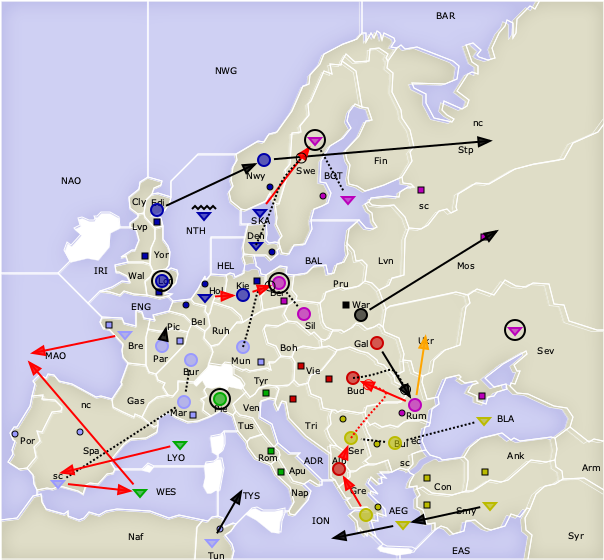
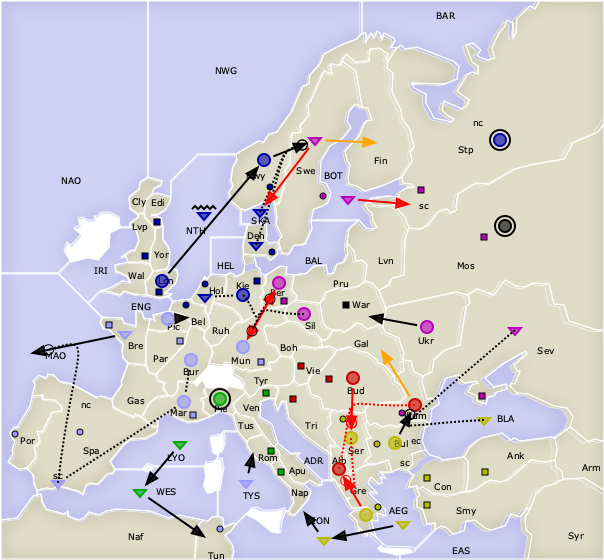
1904 Fall

diff --git a/index.html b/index.html
@@ -36,13 +36,13 @@
         <header>Diplomacy Today</header>
     </div>
 
-		<div class="subhead">York, MA - <span id="season">Spring 1904</span> - Seven Pages</div>
+		<div class="subhead">York, MA - <span id="season">Fall 1904</span> - Seven Pages</div>
 </div>
 <div class="content">
     <div class="collumns">
 			
         <div class="collumn">
-					<div class="head"><span class="headline hl3">Austria Stands Strong: Failed Turkish Invasion Raises Tensions</span><p><span class="headline hl4">Bulgaria, the Great Supporter, Emerges as a Strong Ally for Turkey</span></p></div>
+					<div class="head"><span class="headline hl3">Balkans Boil Over: Turkey & Russia Hold Rumania, Austrian Forces Repelled</span><p><span class="headline hl4">An Unsteady Scales of Power Emerges as Austrians Retreat to Galicia</span></p></div>
 
 				<figure class="figure">
 					
@@ -51,11 +51,11 @@
 							</figure>
 
 					
-					The powerful Austrian forces sustained their defense against the Turkish invasion. Despite the collective forces of Turkey making numerous attempts to clinch Austria's territory, the brave Austrians held their ground. This battle saw Turkey’s stronghold of Serbia and Greece attempting to invade Austria-held Albania, but much to their disappointment, their attack strength fell short. Bulgaria appeared as the wildcard, not only successfully supporting Turkey, but also maintaining its power in Black sea region, unchallenged. Russia saw a failed invasion attempt into Austria’s Budapest from their home ground in Rumania, and later had to retreat to their territory in Ukraine. Austria on the other hand captured Rumania from Russia, making it a significant victory for Austria. These recent findings have sparked multiple discussions regarding shifts in power dynamics and the sun setting in the east for Turkey’s expansion plans.
+					The Austrians, embroiled in a Balkan debacle, have suffered a series of chaotic setbacks. A major assault on Serbia and Albania disrupted, rebuffed, and routed, the Austrian military is in apparent disarray. As for Russia, they saw success with their unchallenged strategic maneuverings from Bulgaria to the thrill of controlling Rumania, startling the geopolitical observers. Likewise, Turkish forces claimed victory in Rumania, which resulted in a resonant show of force that bolsters their dominance. Meanwhile, Greece remains a battleground as a Turkish attempt to overtake it from Albania proved unsuccessful. Despite the dust still settling on the battlefield, all eyes are now on the Austrians' retreat to Galicia and the changing dynamics of the Balkan region.
 				</div>
 			
         <div class="collumn">
-					<div class="head"><span class="headline hl3">Italian and French Armies Clash over Strategic Territories, Stalemate Ensues</span><p><span class="headline hl4">Simultaneous Naval and Ground Offensives Prove Futile as Neither Country Gains Ground</span></p></div>
+					<div class="head"><span class="headline hl3">Northern Conquest: England Expands Influence, Russia Retreats</span><p><span class="headline hl4">Bitter Showdown in Sweden Ends in English Triumph</span></p></div>
 
 				<figure class="figure">
 					
@@ -64,11 +64,12 @@
 							</figure>
 
 					
-					Both France and Italy faced setbacks yesterday during a series of interconnected military engagements. The French navy's planned movement from Brest to the Mid-Atlantic Ocean was deflected by Italian forces. Simultaneously, Italy's attempt to invade Spain from the Ligurian Sea also ended in a stalemate, as French forces successfully held the line. However, both nations have strengthened their resolve as France managed to reinforce its position in Burgundy from Marseille, while strengthening its naval hold near the North coast from Spain. Meanwhile, the Italian navy's pursuits to seize the Mid-Atlantic Ocean from the Western Mediterranean have also proved fruitless. The ceasefire in the waters off Spain underscored the deadlock. The continued failure of the French army's attempt to move from Spain to the Western Mediterranean signaled the intensity of the European standoff. The escalating tensions have brought geopolitical experts, such as esteemed professor Heinrich Von Graf, to question the long-term ramifications for the overall European stability and peace, while the common folk foresee a grave and dark future as the clamor of war echoes throughout the continent.
+					The English fleet, spearheaded by Admiral Lionel Hargreaves, claimed a resounding victory over Russian forces in Sweden. Operation Northern Conquest saw meticulous planning and impeccable execution. Originating from both Norway and Denmark, England demonstrated superior attack strength and unchallenged support, leaving Russia in the dust. The Russian forces, unable to counter England's attack, have been forced to retreat to Finland. Adding insult to injury, England also capitalised on Russia's preoccupation in Scandinavia and took back Norway, further cementing their control in Northern Europe. Tensions reach a fever pitch as this captivating geopolitical chess match unfolds.
+---
 				</div>
 			
         <div class="collumn">
-					<div class="head"><span class="headline hl3">The Lion and the Rooster Foiled by the Bear: Europe’s Geopolitical Chess Game Heats Up</span><p><span class="headline hl4">Russia Remains Victorious in Ber; England and France left Stagnant in their Expansion Efforts.</span></p></div>
+					<div class="head"><span class="headline hl3">Berlin Stands Unfazed Amidst Crossfire Between England, France, and Russia</span><p><span class="headline hl4">Russia stands by England in defending Berlin, results in shocking reversal for France</span></p></div>
 
 				<figure class="figure">
 					
@@ -77,24 +78,11 @@
 							</figure>
 
 					
-					Much hype surrounded the English and French expeditions to German territories, Ber and Kie. Yet, with much disappointment, the much-anticipated control of Ber by England failed. Not only that, but the anticipated acquisition of Kie from Holland ended in much the same way. In a prepared statement, England’s Prime Minister, Arthur Bingham, expressed disappointment but remained hopeful. “These are but small setbacks, our great nation will strive forward and continue to extend our sphere of influence," he voiced with enthusiasm. Meanwhile, the French Ambassador to Munich, Francois Valois, who had set his eyes on Ber, found his efforts equally fruitless, thus leaving Russia to maintain control of their territory. Russia’s President, Ivan Petrovich, was seen celebrating at the Russian Embassy, declaring “No power, no matter how mighty they presume to be, can force the Bear into submission. Today’s victory proved that.” Who knows what the next turn in the game is going to bring. Whatever it is, Europe is kept in suspense, waiting on the edge of their seats.
+					Berlin not only stayed its ground, but witnessed a new chapter in European geopolitical alliances. While the French, led by General Pierre la Rochelle, embarked on an ambitious attack on Berlin, the Russian forces under Ivan Mikhailov surprisingly rallied in support of England's domination in Berlin. Ignoring its possession, Russia moved resolutely away from Munich, resulting in a failed push. Despite the French attack having been unchallenged initially, their strength could not outmatch the united English and Russian defenses, causing a stunning twist, and affirming England's control over Berlin. Meanwhile, England, in a strategic wisdom, ensured the calm in Kiel with solid support from Holland. Today's events raise pivotal questions about the shifting allegiances between these key players and the future of Europe hangs precariously in this delicate balance of power.
 				</div>
 			
         <div class="collumn">
-					<div class="head"><span class="headline hl3">The Russian Bear Holds Ground Against English Invasion!</span><p><span class="headline hl4">A Bold Stand in Sweden Thwarts England's Attempt to Expand Their Territory</span></p></div>
-
-				<figure class="figure">
-					
-					<img class="media" src=assets/battle3.png alt="">
-									<!-- <figcaption class="figcaption">Hermine hoping for courage.</figcaption> -->
-							</figure>
-
-					
-					Yesterday, a fierce diplomatic battle took place as England sought to extend their dominion to Russia-owned Sweden. England, deploying their fleet from Denmark for support, attempted to march to Sweden from the Skagerrak Sea. However, their plan backfired as their army was unable to outmuscle the Russian forces stationed there. In an exciting turn of events, the Russian soldiers, led by General Ivan Petrov, rallied a robust defense, underpinning their strength and resolve. England's attack was thwarted as the Russians victoriously held their ground against the English assault, illustrating that the Motherland will not be so easily taken. This contentious match has underscored the tense relations between England and Russia, an onset of an enthralling geopolitical power play.
-				</div>
-			
-        <div class="collumn">
-					<div class="head"><span class="headline hl3">A New Ice Age: England Overtakes Russian Territories in Stunning Seaborne Invasion</span><p><span class="headline hl4">Brisk British Manoeuvres Claim Nwy, Stp - Threatening Russian Stronghold</span></p></div>
+					<div class="head"><span class="headline hl3">Turkish Fleet Seizes Naples in Unexpected Maritime Assault!</span><p><span class="headline hl4">Amid a Cloud of Gunpowder, Italy Loses Footing in Key Maritime Province.</span></p></div>
 
 				<figure class="figure">
 					
@@ -103,11 +91,50 @@
 							</figure>
 
 					
-					London- In an unprecedented move, English forces, led by General Sir Alistair MacGuffin, have successfully penetrated deeply into Russian territories, taking control of Nwy before mounting an audacious assault on Stp. The invasion, initiated from Edi, emerged victorious due to England's superior attack strength and strategic convoy manoeuvres via NTH. These victories not only threaten Russia's geopolitical stronghold but also herald a trying era for the Tsar's dominion as the Queen's forces show no sign of slowing their expansion.
+					The Turkish Empire, aboard the formidable ships of the Aegean Sea fleet, have victoriously descended upon the city of Naples, Italy. After the initial successful manoeuvre into the Ionian Sea's strategic waters, Turkish forces demonstratively pushed ahead to seize Naples, a move that has sent shockwaves through the corridors of the Italian political establishment. The fleet led by Admiral Ahmet Bey demonstrated superior attack capabilities against the Italian navy, capturing the city largely in part to its strategic use of the Ionian Sea. The fall of Naples is a bitter blow to Italy's geo-strategic designs in the Mediterranean theatre. Political pundits predict significant repercussions for Italy's governance as the nation grapples with this unprecedented security breach, and eyes now inevitably turn to upcoming navigation tables for the next move.
 				</div>
 			
         <div class="collumn">
-					<div class="head"><span class="headline hl3">Daring German Blitzkrieg Captures Moscow!</span><p><span class="headline hl4">Tsar Nicholas II Outraged as German Forces Triumph Through Astute Warfare Strategies</span></p></div>
+					<div class="head"><span class="headline hl3">The Lion of Lyon Leads Italy on the Warpath: Tunis Seized!</span><p><span class="headline hl4">A Daring Naval Strategy Propels Italy to a Strategic Victory in Northern Africa</span></p></div>
+
+				<figure class="figure">
+					
+					<img class="media" src=assets/battle5.png alt="">
+									<!-- <figcaption class="figcaption">Hermine hoping for courage.</figcaption> -->
+							</figure>
+
+					
+					The Italian fleet, commanded by the audacious Admiral 'Lion of Lyon', has ousted the French from Tunis after a fierce naval engagement near the Western Mediterranean. Defying expectations, the Italian navy demonstrated superior tactical prowess and force strength, using Lyon as the launch point of their offensive. The fall of Tunis to Italy represents a significant shift in the power balance of Europe, with reverberations surely to ripple through diplomatic channels from Vienna to London. As the dust settles, Europe watches on pins and needles, anticipating France’s response to this audacious Italian gambit.
+				</div>
+			
+        <div class="collumn">
+					<div class="head"><span class="headline hl3">Russian Might Overpowers German Hold in Warsaw!</span><p><span class="headline hl4">Unexpected Swift Victory by Russian Forces Emerges From Ukraine</span></p></div>
+
+				<figure class="figure">
+					
+					<img class="media" src=assets/battle6.png alt="">
+									<!-- <figcaption class="figcaption">Hermine hoping for courage.</figcaption> -->
+							</figure>
+
+					
+					Germany has lost control of Warsaw to Russia. This extraordinary victory racked up by Russian troop highlights a sudden shift of power in Europe's geopolitical landscape. Led by the indomitable General Yuri Petrovich, the Russian force surged from Ukraine, expertly harnessing a greater attack strength to push back the German side. The fall of Warsaw marks a new chapter in Russia's march towards dominance, leaving the continents' leaders to reassess their own strategies.
+				</div>
+			
+        <div class="collumn">
+					<div class="head"><span class="headline hl3">Le coup de Picardy: Battle of Belgium Concludes in Stunning French Victory</span><p><span class="headline hl4">England left Red-faced as France Hammers the Final Nail in the Coffin of their Belgian Occupation</span></p></div>
+
+				<figure class="figure">
+					
+					<img class="media" src=assets/battle7.png alt="">
+									<!-- <figcaption class="figcaption">Hermine hoping for courage.</figcaption> -->
+							</figure>
+
+					
+					French forces staged an audacious assault from Picardy, successfully invading and wresting control of Belgium from English occupation. The battle, which analysts described as a seminal showdown of the European geopolitical landscape, abruptly ended with France's overwhelming attack strength. England, caught off-guard, finds itself in a humbling retreat, paving the way for a new Francophile era in Belgium. The spearhead of the attack, French General Jacques Leblanc, hailed the victory as a testament to French military prowess and further confirmation of the weakening grip of English power in Continental Europe.
+				</div>
+			
+        <div class="collumn">
+					<div class="head"><span class="headline hl3">French Fleet Overpowers Rome; Tyrrhenian Sea Feeds Italian Flames!</span><p><span class="headline hl4">A decisive blow as the French seize the Eternal City in an unexpected maritime assault.</span></p></div>
 
 				<figure class="figure">
 					
@@ -116,7 +143,33 @@
 							</figure>
 
 					
-					The German army has succeeded in capturing the city of Moscow from Russia yesterday, sending shockwaves through the Kremlin. The Russian government, under Tsar Nicholas II, is now reeling from the defeat and scrambling to regain the control of their capital city. The operation, dubbed as 'Operation Nordlicht', was initiated under the leadership of General Friedrich von Schlieffen from the German war office in Warsaw, who is now being hailed as a national hero in Germany.
+					This week, in a surprising turn of events, French vessels stormed into Rome from the Tyrrhenian Sea, surprising Italian defenses and securing a swift victory. The audacious offensive launched by Admiral Marius Devereux has shaken the Italian political landscape to its core. Capitalizing on the Italian's apparent naval inferiority, the French have bared their teeth in this territorial tug of war, destabilizing the Mediterranean balance of power. Rome now lies under the Tricolor, sending shockwaves all over Europe.
+				</div>
+			
+        <div class="collumn">
+					<div class="head"><span class="headline hl3">The Russian Bear Bites Back: Failed Seizure of St. Petersburg!</span><p><span class="headline hl4">The British Lion withstands the blow, clinging firm to the czar's old heartland</span></p></div>
+
+				<figure class="figure">
+					
+					<img class="media" src=assets/battle9.png alt="">
+									<!-- <figcaption class="figcaption">Hermine hoping for courage.</figcaption> -->
+							</figure>
+
+					
+					The globe watched in quiet suspense as the heart of the British Empire sought to defend a flush acquisition, the once-prestigious seat of imperial Russia, St. Petersburg. The Russian offensive, orchestrated by Admiral Igor Petrov from the Gulf of Bothnia, was nothing short of a nationalistic crusade to take back what was once theirs. However, the zealous hope dipped into a cold reality when the English defense, led by Colonel William Churchill, revealed itself to be an impenetrable bulwark. Russia's naval assault found itself hopelessly outmatched, proving yet again that the British commanding rule in St. Petersburg is not just symbolic, but formidable and resilient. As the dust settles, whispers of tension and turmoil punctuate the courts of both nations. Only time will tell how this twisted dance of powers continues.
+				</div>
+			
+        <div class="collumn">
+					<div class="head"><span class="headline hl3">Germany Establishes Firm Control Over Moscow!</span><p><span class="headline hl4">Unchallenged Stance of German Forces in Russian Territory Sparks Tensions!</span></p></div>
+
+				<figure class="figure">
+					
+					<img class="media" src=assets/battle10.png alt="">
+									<!-- <figcaption class="figcaption">Hermine hoping for courage.</figcaption> -->
+							</figure>
+
+					
+					German troops have tightened their grip over the city of Moscow, Russia's prestigious capital. Reports confirm that the German order to hold the city went utterly unchallenged. This latest occurrence has left observers abuzz about the implications for the overall geopolitics of Europe. Rumors abound of an ominous silence from Tsar Nicholas II and his advisors. As Field Marshal von Schlieffen staunchly reinforces his position, one can only wonder about the potential aftermath to this unprecedented assertiveness from Germany on Russian soil.
 				</div>
 			
         <div class="collumn">
@@ -124,7 +177,7 @@
 
 				<figure class="figure">
 					
-					In other news, recent troop movements hint at rising tensions across Europe. Turkish forces have been seen mobilizing in the Aegean Sea before advancing into the Ionian Sea, hinting at a potential naval buildup. Similarly, French regiments marched from Paris to Picardy while their fleet moved from Tunisia to the Tyrrhenian Sea, indicating a possible expansion of their maritime reach. On the other hand, it seems all is quiet on the English, Russian, and Italian fronts as troops in London, Sevastopol, and Piedmont remain stationed. As to what all these movements might portend, only time will tell.
+					In other news, France saw a series of successful military movements today. Forces stationed in Burgundy advanced to Marseilles, gaining strategic positions. This move was unchallenged, showcasing France's influence in the region. Off the French coast, naval forces moved successfully from Brest to the Mid-Atlantic Ocean, well supported by forces in Spain. This move gives France firm control of the seas. Meanwhile, in Spain, aligned forces also backed the movement from Marseilles lending further strength to France's position. Over in Italy, there was peace as the military force in Piedmont held its position without any challenges. Today's happenings show the superiority and strategy of France's army, both on land and at sea.
 				</div>
 			
   <!--       <div class="collumn"> -->

diff --git a/main.py b/main.py
@@ -8,16 +8,17 @@ from jinja2 import Environment, FileSystemLoader
 from tqdm import tqdm
 
 from diplomacy_news.get_backstabbr import get_backstabbr
-from diplomacy_news.get_war_map import (get_battle_map, get_battles_coords,
-                                        get_war_map)
+from diplomacy_news.get_war_map import get_battle_map, get_battles_coords
 from diplomacy_news.ping_gpt import ping_gpt
 
 countries = ["Austria", "England", "France", "Germany", "Italy", "Russia", "Turkey"]
 
 
 def main():
-    orders, units_by_player, territories, season = get_backstabbr()
-
+    force = True
+    orders, units_by_player, territories, season = get_backstabbr(force)
+    if orders is None:
+        return None
     summaries = get_battles(orders, territories)
     news = get_news(summaries)
     #  main_headline = create_main_headline(news)
@@ -35,7 +36,7 @@ def get_battles(orders, territories):
     battles_possessions = get_battles_possessions(battles, territories)
     battles_coords = get_battles_coords(battles, metadata)
     summaries = get_summaries(
-        battles, battles_orders, battles_possessions, battles_coords
+        battles, battles_orders, battles_possessions, battles_coords, metadata
     )
     return summaries
 
@@ -138,7 +139,9 @@ def get_battle_possessions(battle, territories):
     return battle_possessions
 
 
-def get_summaries(battles, battles_orders, battles_possessions, battles_coords):
+def get_summaries(
+    battles, battles_orders, battles_possessions, battles_coords, metadata
+):
     summaries = []
     for i, battle, battle_orders, battle_possessions, battle_coords in zip(
         range(len(battles)),
@@ -148,8 +151,10 @@ def get_summaries(battles, battles_orders, battles_possessions, battles_coords):
         battles_coords,
     ):
         countries_involved = get_countries_involved(battle_orders, battle_possessions)
-        pretty_battle_orders = get_pretty_battle_orders(battle_orders)
-        pretty_battle_possessions = get_pretty_battle_possessions(battle_possessions)
+        pretty_battle_orders = get_pretty_battle_orders(battle_orders, metadata)
+        pretty_battle_possessions = get_pretty_battle_possessions(
+            battle_possessions, metadata
+        )
         battle_map = get_battle_map(battle_coords, i)
         summary = dict(
             countries_involved=countries_involved,
@@ -169,18 +174,39 @@ def get_countries_involved(battle_orders, battle_possessions):
     return countries_involved
 
 
-def get_pretty_battle_orders(battle_orders):
-    pretty_battle_orders = yaml.dump(battle_orders)
+def get_pretty_battle_orders(battle_orders, metadata):
+    long_battle_orders = battle_orders.copy()
+    long_battle_orders = [
+        get_full_names_dictionary(battle_order, metadata)
+        for battle_order in long_battle_orders
+    ]
+    pretty_battle_orders = yaml.dump(long_battle_orders)
     return pretty_battle_orders
 
 
-def get_pretty_battle_possessions(battle_possessions):
+def get_full_names_dictionary(any_dict, metadata):
+    random_dict = any_dict.copy()
+    for key, value in random_dict.items():
+        if type(value) == str and value in metadata:
+            random_dict[key] = metadata[value]["name"]
+        if type(value) == dict:
+            subdict = get_full_names_dictionary(value, metadata)
+            random_dict[key] = subdict
+
+    return random_dict
+
+
+def get_pretty_battle_possessions(battle_possessions, metadata):
     territories_by_country = {
         country: get_territories_by_country(country, battle_possessions)
         for country in countries
     }
     territories_by_country = {c: t for c, t in territories_by_country.items() if t}
-    pretty_battle_possessions = yaml.dump(territories_by_country)
+    long_ter_by_country = {
+        c: [metadata[ter]["name"] for ter in t]
+        for c, t in territories_by_country.items()
+    }
+    pretty_battle_possessions = yaml.dump(long_ter_by_country)
     return pretty_battle_possessions
 
 
@@ -311,3 +337,7 @@ def generate_newspaper(news_list, main_headline, season, standing):
         standing=standing,
     )
     Path("index.html").write_text(newspaper)
+
+
+if __name__ == "__main__":
+    main()

diff --git a/diplomacy_news/get_backstabbr.py b/diplomacy_news/get_backstabbr.py
@@ -1,5 +1,6 @@
 import json
 import re
+from pathlib import Path
 
 import requests
 from bs4 import BeautifulSoup
@@ -7,7 +8,7 @@ from bs4 import BeautifulSoup
 from diplomacy_news.get_war_map import get_war_map
 
 
-def get_backstabbr():
+def get_backstabbr(force=False):
     base_url = "https://www.backstabbr.com"
     url = base_url + "/game/KGB/5178831816753152"
     res = requests.get(url)
@@ -18,12 +19,15 @@ def get_backstabbr():
         url = base_url + prev_season
         res = requests.get(url)
         bs = BeautifulSoup(res.text, "lxml")
-        get_war_map(url)
 
         #  stage = json.loads(re.search("var stage = (.*)", res.text)[1][:-1])
     season = bs.find("a", {"id": "history_current_season"})
     if season:
         season = season.text.strip().title()
+    previous_news_season = get_previous_news_season()
+    if not force and previous_news_season == season:
+        return None, None, None, None
+    get_war_map(url)
     orders = get_property("orders", res)
     units_by_player = get_property("units_by_player", res)
     territories = get_property("territories", res)
@@ -41,3 +45,10 @@ def get_property(property_name, res):
     else:
         property = ""
     return property
+
+
+def get_previous_news_season():
+    previous_news = Path("index.html").read_text()
+    bs = BeautifulSoup(previous_news, "lxml")
+    previous_news_season = bs.find("span", {"id": "season"}).text
+    return previous_news_season
